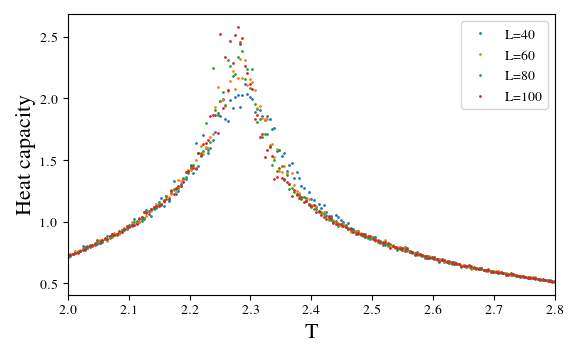
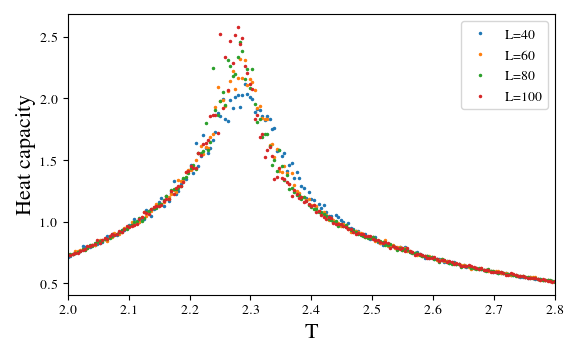
Forgot to pass order to isin in equilibrium. Turned on -> new plots

diff --git a/Project4/src/equilibrium.py b/Project4/src/equilibrium.py
@@ -26,6 +26,6 @@ if __name__ == '__main__':
         for ordered in [-1,0,1]:
             for i in range(0,len(cycles)):
                 print('T: {}, cycle: {}/{}'.format(T, int(cycles[i]), cycles[-1]))
-                values, accepted,d = ising(L,int(cycles[i]),T, delay=0, ordered=0)
+                values, accepted,d = ising(L,int(cycles[i]),T, delay=0, ordered=ordered)
                 expect = expectation_values(values, cycles[i],L,T)
                 write_run(output, expect, T,L,ordered,cycles[i],delay,accepted)
